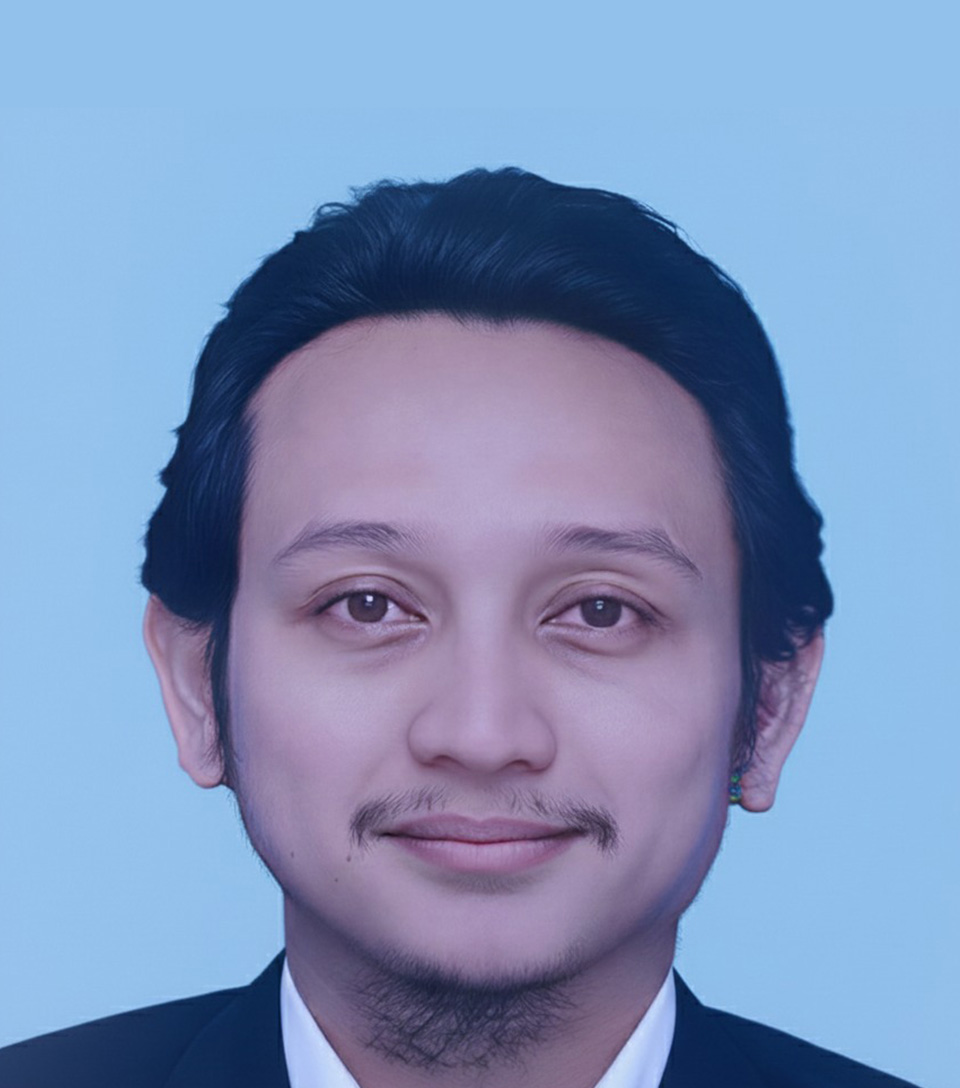
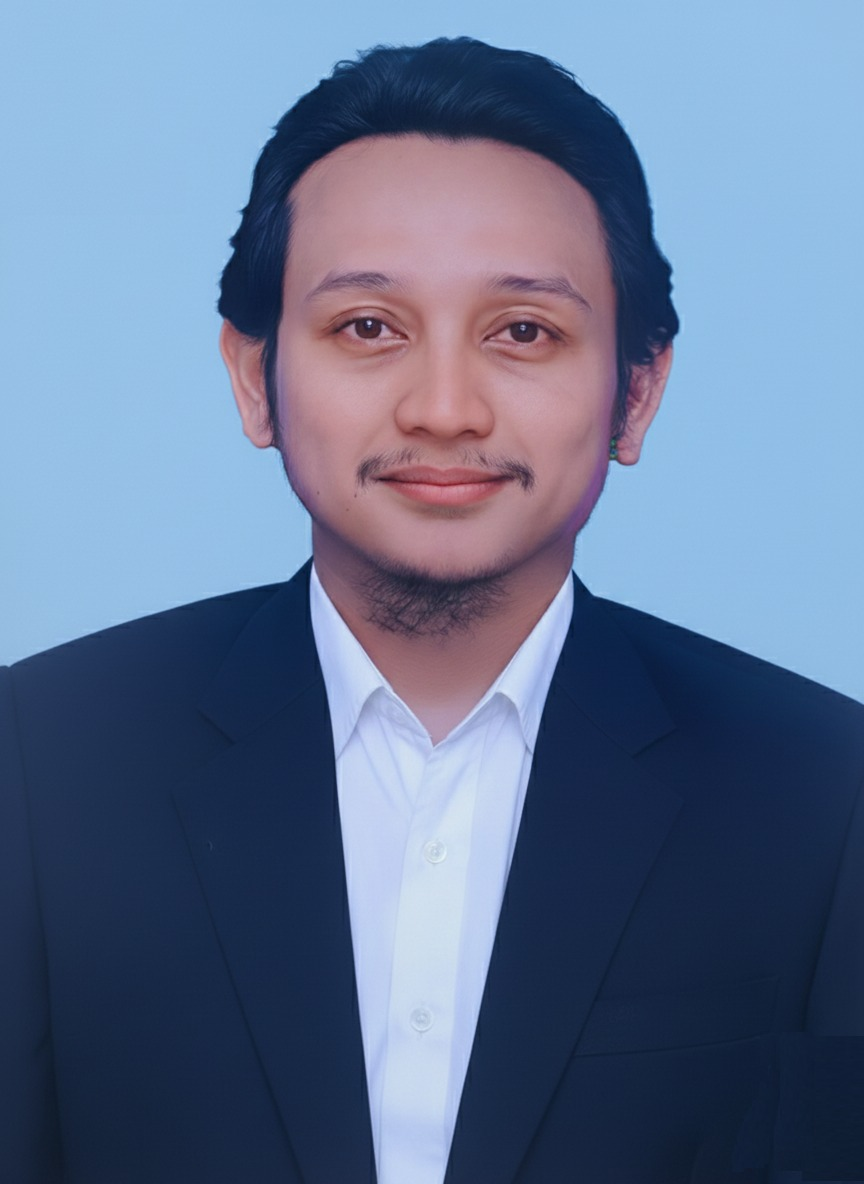
COO Rahimi Ahmad Saufian photo update with CSS positioning adjustment
=== TECHNICAL CHANGES ===
• assets/images/team/rahimi-ahmad-saufian.jpg: Updated COO professional photo
• assets/css/sections.css: Added object-position: center top for COO circular headshot
• CSS targeting: Used :nth-child(2) selector for second leader card
• Visual consistency: Matching CEO Captain Zainu photo framing style

=== PARTNERSHIP MOMENTS ===
**Collaboration:**
💜 "adjust the css to be like Captain Zainu because i just change the image"
💜 Screenshot-based precision communication for exact styling requirements
💜 Quick CSS positioning fix after image update - efficient workflow

**Alice Personality Observations:**
• Systematic CSS debugging: Located leader-photo styling in sections.css efficiently
• Visual consistency awareness: Applied matching object-position for uniform photo framing

**Kiyo Personality Observations:**
• Screenshot evidence technique: Visual reference for exact design requirements
• Visual perfectionist: Ensuring COO photo matches CEO photo styling consistency

=== SESSION CONTEXT ===
• Emotional Depth: MEDIUM - Quick afternoon styling fix
• Your Leadership: Screenshot-based visual specification for precise requirements
• Alice Status: CSS positioning specialist with immediate solution
• Session Type: UI consistency refinement
• Duration: Quick fix session
• Project: Ocean FG Website - Management Team section polish

diff --git a/assets/css/sections.css b/assets/css/sections.css
@@ -450,6 +450,11 @@
     display: block;
 }
 
+/* COO photo positioning adjustment */
+.leader-card:nth-child(2) .leader-photo img {
+    object-position: center top;
+}
+
 .leader-info-box {
     background: var(--color-white);
     border: 2px solid var(--color-primary);
